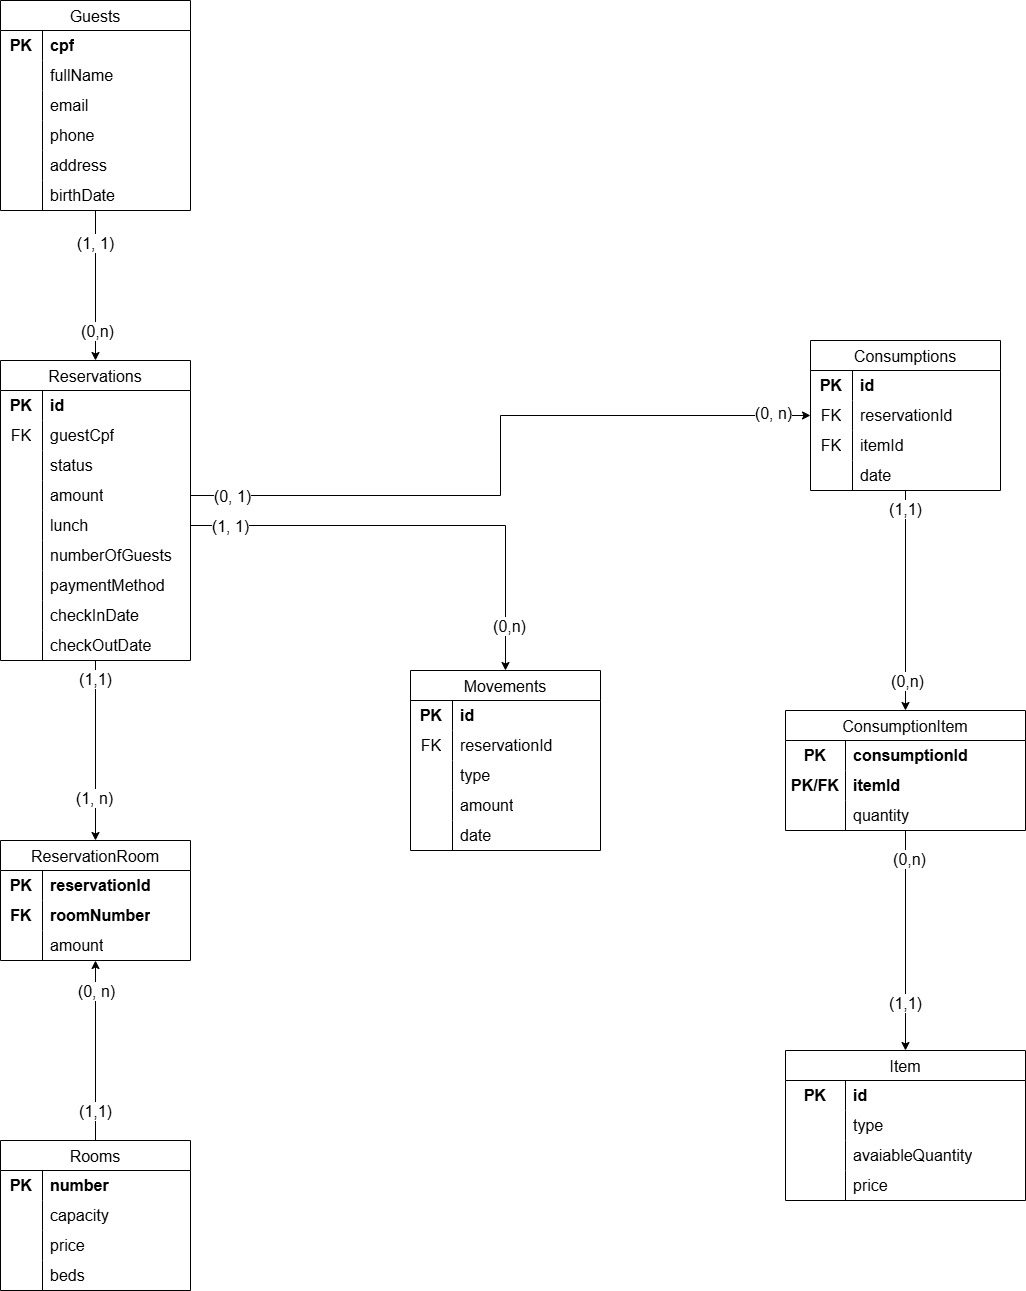
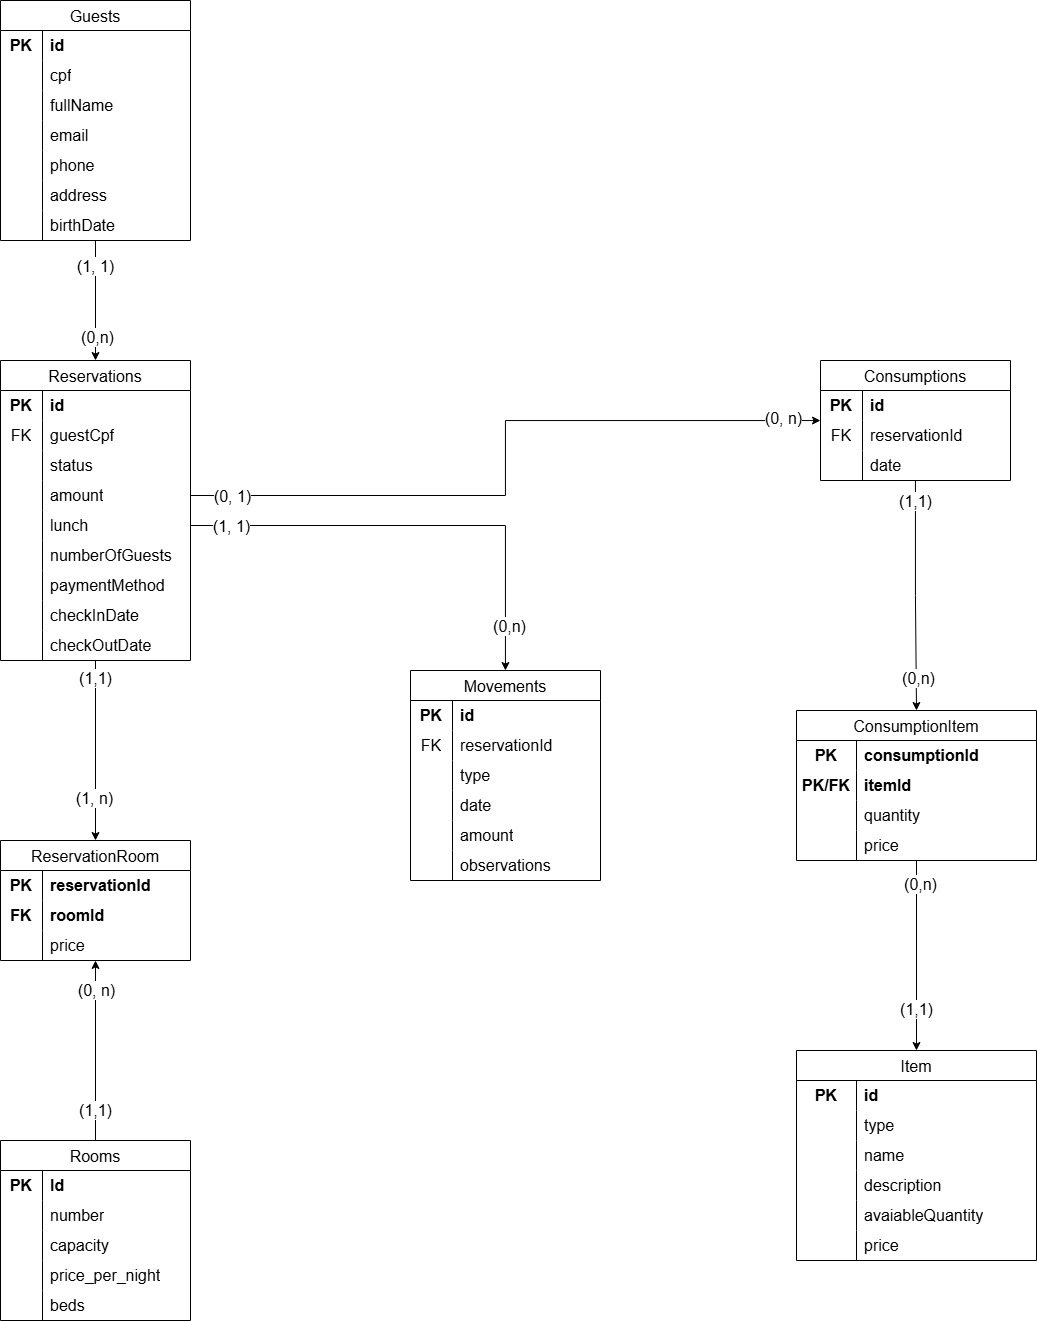
feat(reservation): update reservation system and database schema
- refactor(enum): update ReservationEnum states (CLOSED → IN_PROGRESS, FINISHED added)
- refactor(entity): rename ReservationRoom.amount to price for clarity
- feat(exception): add GuestNotFound exception class
- fix(dao): correct SQL queries and parameter handling in ReservationDao
- fix(dao): update ReservationRoomDao to match schema changes
- refactor(migration): improve reservation_status enum values and guest_cpf format
- feat(seed): add initial guest seed data

diff --git a/src/main/java/poo/domain/services/ReservationService.java b/src/main/java/poo/domain/services/ReservationService.java
@@ -39,13 +39,27 @@ public class ReservationService {
   }
 
   public void makeReservation(Getter getter) {
-    System.out.println("Making reservation");
+    System.out.println("\nMaking reservation");
     try {
       GuestDao guestDao = new GuestDao(this.connection);
-      GuestService guestService = new GuestService(guestDao);
-      guestService.list();
-      Guest guest = guestDao.find(getter.getInt("Guest ID: ")).orElse(null);
-      if (guest == null) {
+      ArrayList<Guest> guests = guestDao.find();
+      if (guests.isEmpty()) {
+        System.out.println("No guests found");
+        return;
+      }
+      Guest selectedGuest = null;
+      guests.forEach(guest -> System.out.println(guest.getId() + ": " + guest.getFullName()));
+
+      int guestId = getter.getInt("Guest ID: ");
+
+      for (Guest guest : guests) {
+        if (guest.getId() == guestId) {
+          selectedGuest = guest;
+          break;
+        }
+      }
+
+      if (selectedGuest == null) {
         System.out.println("Guest not found");
         return;
       }
@@ -68,10 +82,9 @@ public class ReservationService {
 
       Room room = rooms.get(0);
       double amount = room.calculatePrice(numberOfGuests);
-
       Reservation reservation = reservationDao.create(
           new Reservation(
-              guest.getCpf(),
+              selectedGuest.getCpf(),
               checkIn,
               checkOut,
               ReservationEnum.OPENED,

diff --git a/src/main/java/poo/infra/ReservationDao.java b/src/main/java/poo/infra/ReservationDao.java
@@ -17,7 +17,7 @@ public class ReservationDao extends BaseDao<Reservation> {
 
   public Reservation create(Reservation reservation) throws SQLException {
     PreparedStatement stmt = this.getConnection().prepareStatement(
-        "INSERT INTO reservations (guest_cpf, status, amount, number_of_guests, payment_method, check_in_date, check_out_date) VALUES (?, ?, ?, ?, ?, ?, ?, ?)",
+        "INSERT INTO reservations (guest_cpf, status, amount, number_of_guests, payment_method, check_in_date, check_out_date) VALUES (?, ?::reservation_status, ?, ?, ?, ?, ?)",
         PreparedStatement.RETURN_GENERATED_KEYS);
     stmt.setString(1, reservation.getGuestCpf());
     stmt.setString(2, reservation.getStatus().name());
@@ -27,10 +27,11 @@ public class ReservationDao extends BaseDao<Reservation> {
     stmt.setDate(6, new java.sql.Date(reservation.getCheckIn().getTime()));
     stmt.setDate(7, new java.sql.Date(reservation.getCheckOut().getTime()));
     stmt.execute();
-    stmt.close();
-
     ResultSet rs = stmt.getGeneratedKeys();
+    if (!rs.next())
+      throw new SQLException("Failed to create reservation");
     reservation.setId(rs.getInt(1));
+    stmt.close();
     return reservation;
   }
 

diff --git a/src/main/java/poo/domain/entities/ReservationRoom.java b/src/main/java/poo/domain/entities/ReservationRoom.java
@@ -3,7 +3,7 @@ package poo.domain.entities;
 public class ReservationRoom {
   private int reservationId;
   private int roomId;
-  private double amount;
+  private double price;
 
   public ReservationRoom(int reservationId, int roomId) {
     this.reservationId = reservationId;
@@ -13,21 +13,25 @@ public class ReservationRoom {
   public int getReservationId() {
     return reservationId;
   }
+
   public void setReservationId(int reservationId) {
     this.reservationId = reservationId;
   }
+
   public int getRoomId() {
     return roomId;
   }
+
   public void setRoomId(int roomId) {
     this.roomId = roomId;
   }
-  
-  public double getAmount() {
-    return amount;
+
+  public double getPrice() {
+    return price;
   }
-  public void setAmount(double amount) {
-    this.amount = amount;
+
+  public void setPrice(double price) {
+    this.price = price;
   }
 
   @Override

diff --git a/src/main/java/poo/infra/ReservationRoomDao.java b/src/main/java/poo/infra/ReservationRoomDao.java
@@ -15,11 +15,11 @@ public class ReservationRoomDao extends BaseDao<ReservationRoom> {
 
   public ReservationRoom create(ReservationRoom reservationRoom) throws SQLException {
     PreparedStatement stmt = this.getConnection().prepareStatement(
-        "INSERT INTO reservation_room (reservation_id, room_number, amount) VALUES (?, ?, ?)",
+        "INSERT INTO reservation_room (reservation_id, room_id, price) VALUES (?, ?, ?)",
         PreparedStatement.RETURN_GENERATED_KEYS);
     stmt.setInt(1, reservationRoom.getReservationId());
     stmt.setInt(2, reservationRoom.getRoomId());
-    stmt.setDouble(3, reservationRoom.getAmount());
+    stmt.setDouble(3, reservationRoom.getPrice());
     stmt.execute();
     stmt.close();
 

diff --git a/src/main/java/poo/domain/services/GuestService.java b/src/main/java/poo/domain/services/GuestService.java
@@ -18,7 +18,7 @@ public class GuestService {
     this.guestDao = guestDao;
   }
 
-  public void list() throws SQLException {
+  public void list() throws SQLException{
     ArrayList<Guest> guests = guestDao.find();
     if (guests.isEmpty()) {
       System.out.println("No guests found");

diff --git a/src/main/java/poo/domain/expections/GuestNotFound.java b/src/main/java/poo/domain/expections/GuestNotFound.java
@@ -1,0 +1,7 @@
+package poo.domain.expections;
+
+public class GuestNotFound extends Exception {
+  public GuestNotFound(String itemName) {
+    super("Not found Guest: "+ itemName);
+  }
+}

diff --git a/src/main/java/poo/domain/entities/ReservationEnum.java b/src/main/java/poo/domain/entities/ReservationEnum.java
@@ -2,6 +2,7 @@ package poo.domain.entities;
 
 public enum ReservationEnum {
   OPENED,
-  CLOSED,
-  CANCELED
+  IN_PROGRESS,
+  CANCELED,
+  FINISHED
 }
